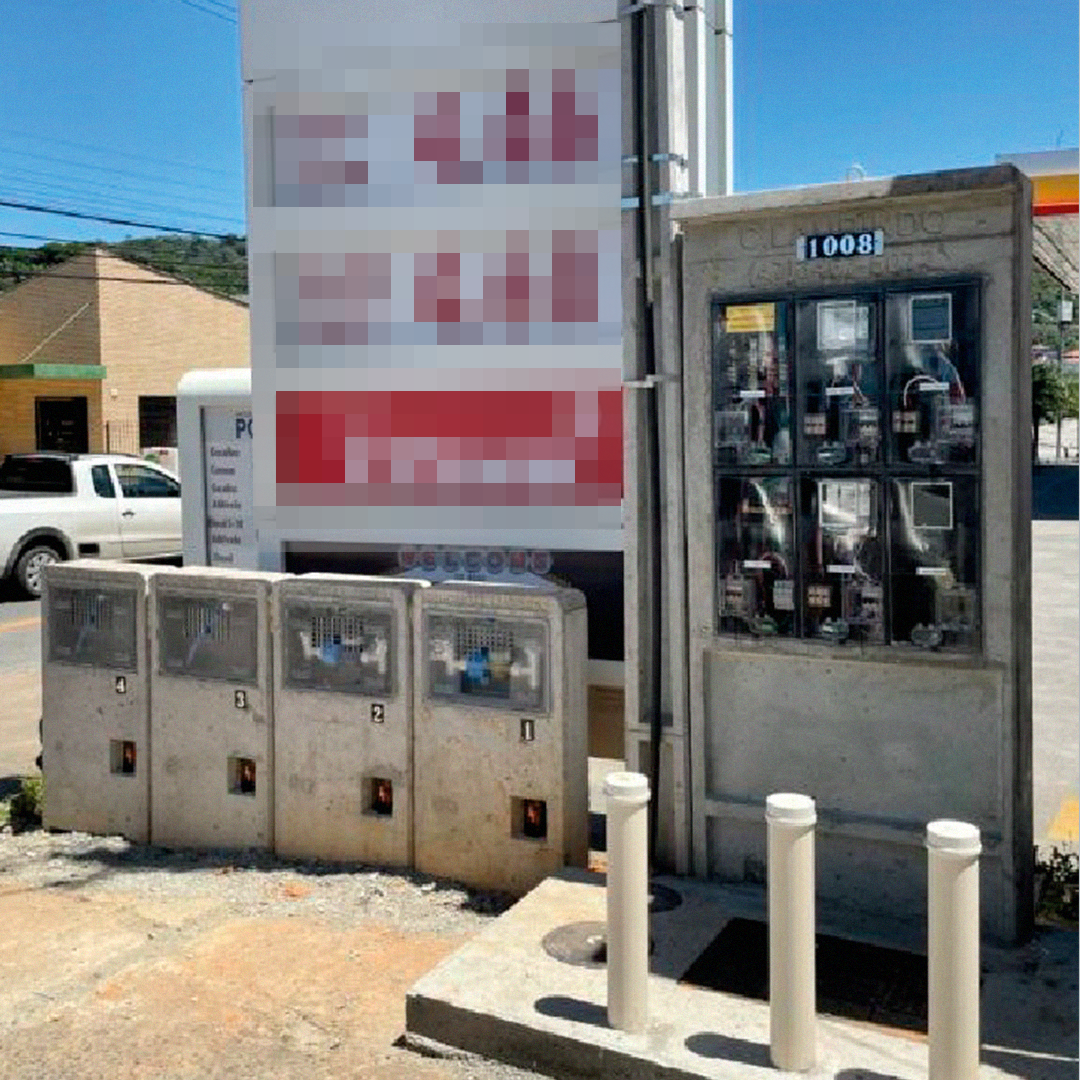
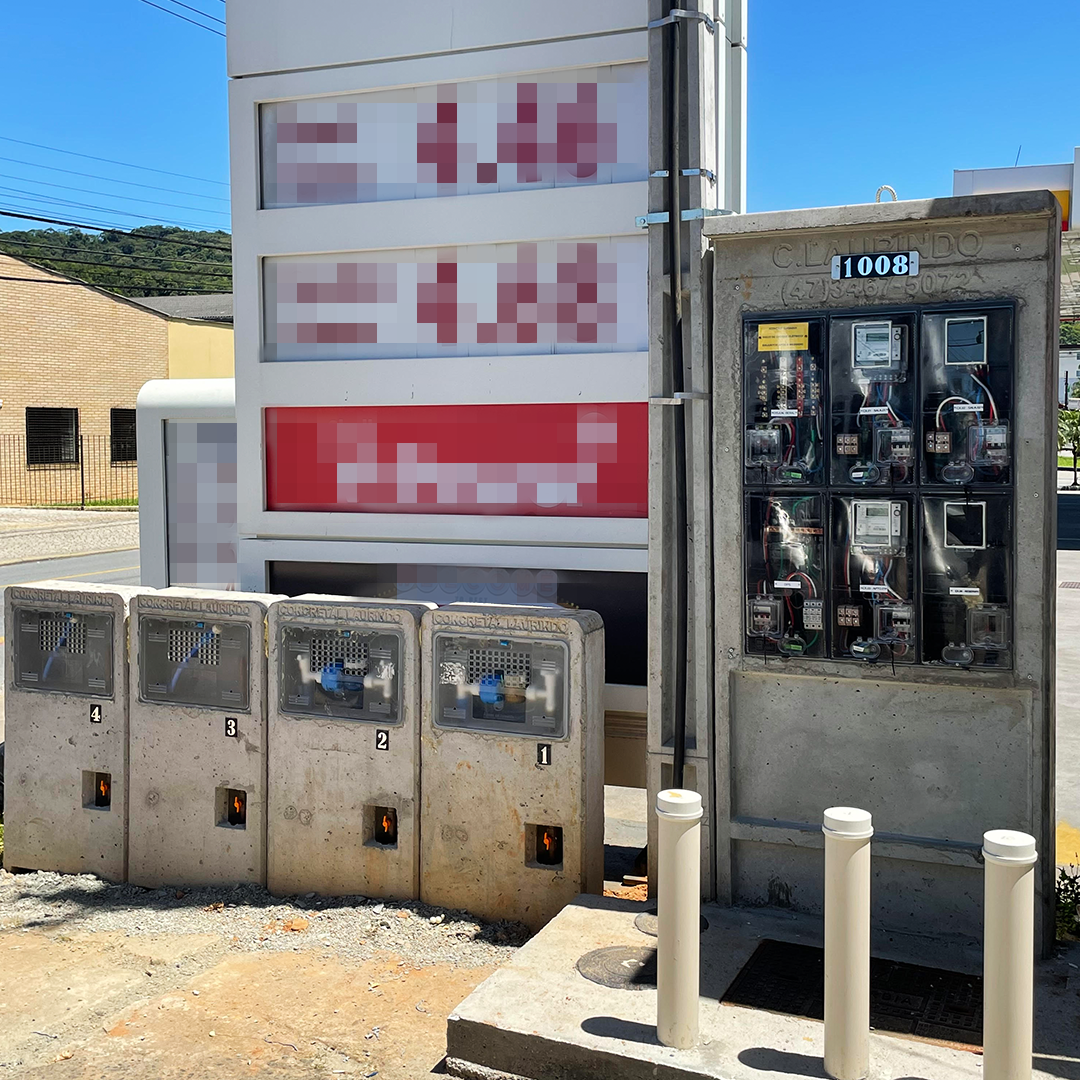
troca de imagens

diff --git a/pages/paineis.php b/pages/paineis.php
@@ -252,6 +252,10 @@
                                             <img src="<?php echo $pageurl; ?>/public/images/novo-paineis-4-medicoes.png" alt="" />
                                         </div>
 
+                                        <div class="swiper-slide">
+                                            <img src="<?php echo $pageurl; ?>/public/images/novo-paineis-4-medicoes-3.png" alt="" />
+                                        </div>
+
                                         <!-- <div class="swiper-slide">
                                             <img src="<?php echo $pageurl; ?>/public/images/painel-4-medicoes-5.png" alt="" />
                                         </div> -->
@@ -297,9 +301,9 @@
                             <div class="toggle-img">
                                 <div class="swiper swiper-painel-6-medicoes">
                                     <div class="swiper-wrapper">
-                                        <div class="swiper-slide">
+                                        <!-- <div class="swiper-slide">
                                             <img src="<?php echo $pageurl; ?>/public/images/painel-6-medicoes.png" alt="" />
-                                        </div>
+                                        </div> -->
 
                                         <div class="swiper-slide">
                                             <img src="<?php echo $pageurl; ?>/public/images/painel-6-medicoes-2.png" alt="" />
@@ -313,7 +317,7 @@
                                             <img src="<?php echo $pageurl; ?>/public/images/painel-6-medicoes-4.png" alt="" />
                                         </div> -->
 
-                                        <div class="swiper-slide">
+                                        <!-- <div class="swiper-slide">
                                             <img src="<?php echo $pageurl; ?>/public/images/painel-6-medicoes-5.png" alt="" />
                                         </div>
 
@@ -347,7 +351,7 @@
 
                                         <div class="swiper-slide">
                                             <img src="<?php echo $pageurl; ?>/public/images/painel-6-medicoes-13.png" alt="" />
-                                        </div>
+                                        </div> -->
                                     </div>
                                     <div class="swiper-pagination"></div>
                                 </div>
